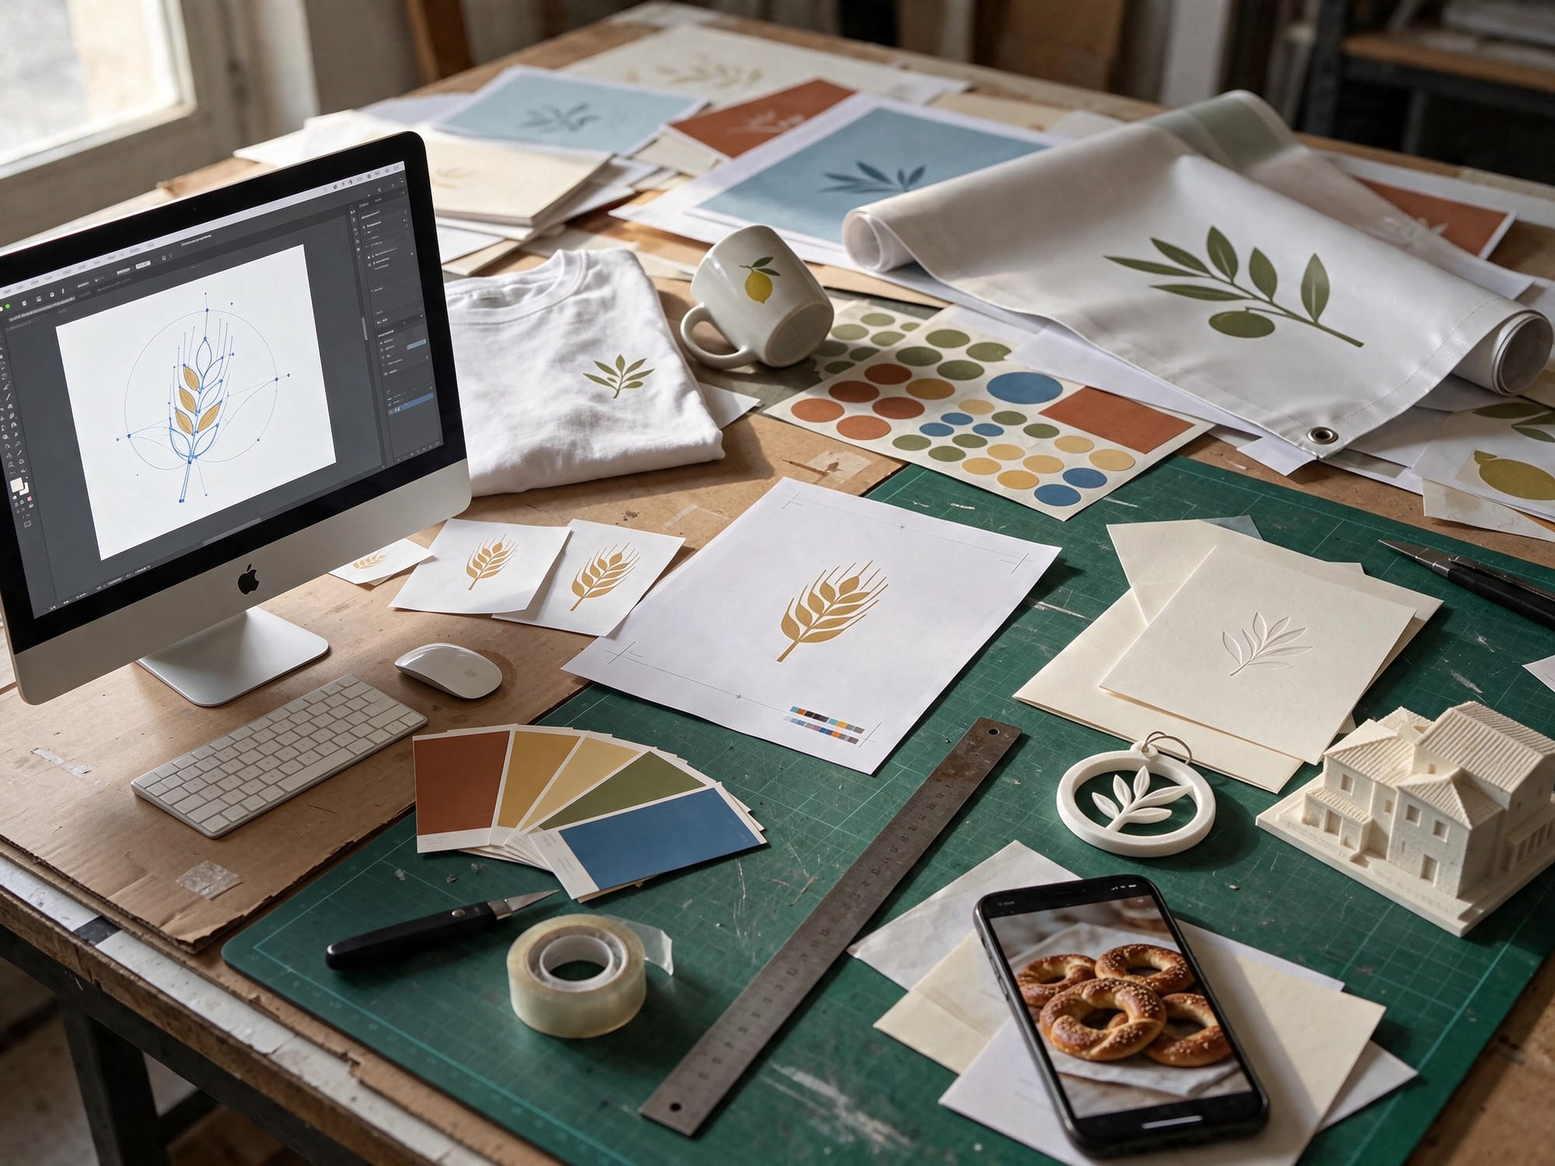
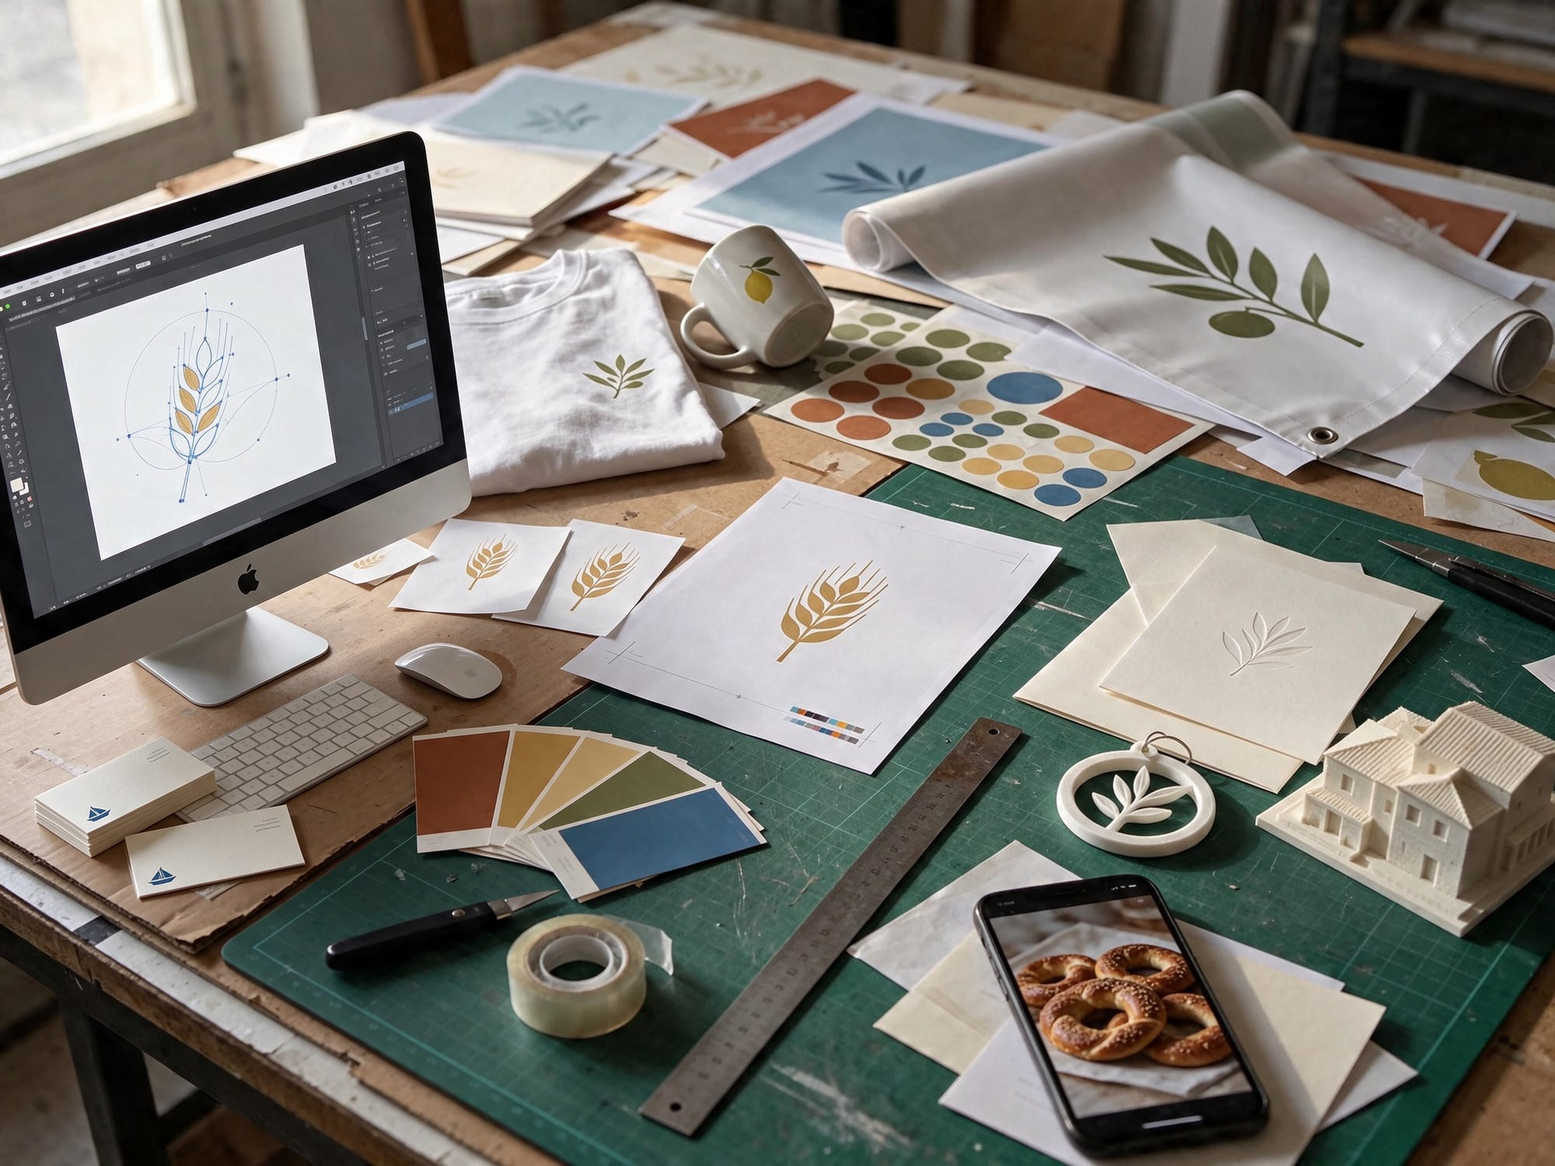
Workbench photo: business cards back in view; marker 1 clear of the frame edge

Changed region(s): [[0.0, 0.644, 0.217, 0.7973]]

diff --git a/src/i18n/pages/about.ts b/src/i18n/pages/about.ts
@@ -17,7 +17,7 @@ export const aboutText = {
      * four numbered points listed beside it (`lead` in bold, then `text`).
      */
     workbench: {
-      alt: 'Το τραπέζι εργασίας του τυπογραφείου: ένα iMac με το πρώτο σχέδιο ενός λογοτύπου στην οθόνη, τρεις τυπωμένες προτάσεις, δείγματα χρωμάτων και ένα δοκιμαστικό, ανάμεσα σε έτοιμες δουλειές: κάρτες, μπλουζάκι, κούπα, αυτοκόλλητα, πανό, ανάγλυφο προσκλητήριο, 3D εκτυπώσεις και μια ανάρτηση στο κινητό.',
+      alt: 'Το τραπέζι εργασίας του τυπογραφείου: ένα iMac με το πρώτο σχέδιο ενός λογοτύπου στην οθόνη, τυπωμένες προτάσεις, δείγματα χρωμάτων και ένα δοκιμαστικό, ανάμεσα σε έτοιμες δουλειές: κάρτες, μπλουζάκι, κούπα, αυτοκόλλητα, πανό, ανάγλυφο προσκλητήριο, 3D εκτυπώσεις και μια ανάρτηση στο κινητό.',
       stepsLabel: 'Από το σκίτσο στο δοκιμαστικό',
       steps: [
         { lead: 'Η πρώτη ιδέα,', text: 'σχεδιασμένη στον υπολογιστή.' },

diff --git a/CONTENT_REVIEW.md b/CONTENT_REVIEW.md
@@ -241,29 +241,29 @@ Every Greek string on the site that is **not** the owner’s own wording, for th
 
 ## `src/i18n/pages/about.ts` — `aboutText`
 
-| Key                                | Text                                                                                                                                                                                                                                                                                                       |
-| ---------------------------------- | ---------------------------------------------------------------------------------------------------------------------------------------------------------------------------------------------------------------------------------------------------------------------------------------------------------- |
-| `metaTitle`                        | Η εταιρεία: διαφήμιση & εκτυπώσεις                                                                                                                                                                                                                                                                         |
-| `metaDescription`                  | Η ΔΙΑΤΥΠΩΣΗ δίνει μορφή στις ιδέες σας με λύσεις διαφήμισης, εκτύπωσης και προβολής, με ποιότητα, συνέπεια και προσωπική εξυπηρέτηση. Γνωρίστε μας.                                                                                                                                                        |
-| `headerLabel`                      | Η εταιρεία                                                                                                                                                                                                                                                                                                 |
-| `headerTitle`                      | Από την ιδέα στο χαρτί, μαζί σας                                                                                                                                                                                                                                                                           |
-| `approachHeading`                  | Πώς δουλεύουμε                                                                                                                                                                                                                                                                                             |
-| `workbench.alt`                    | Το τραπέζι εργασίας του τυπογραφείου: ένα iMac με το πρώτο σχέδιο ενός λογοτύπου στην οθόνη, τρεις τυπωμένες προτάσεις, δείγματα χρωμάτων και ένα δοκιμαστικό, ανάμεσα σε έτοιμες δουλειές: κάρτες, μπλουζάκι, κούπα, αυτοκόλλητα, πανό, ανάγλυφο προσκλητήριο, 3D εκτυπώσεις και μια ανάρτηση στο κινητό. |
-| `workbench.stepsLabel`             | Από το σκίτσο στο δοκιμαστικό                                                                                                                                                                                                                                                                              |
-| `workbench.steps[0].lead`          | Η πρώτη ιδέα,                                                                                                                                                                                                                                                                                              |
-| `workbench.steps[0].text`          | σχεδιασμένη στον υπολογιστή.                                                                                                                                                                                                                                                                               |
-| `workbench.steps[1].lead`          | Προτάσεις                                                                                                                                                                                                                                                                                                  |
-| `workbench.steps[1].text`          | για το σήμα σας, σε χαρτί.                                                                                                                                                                                                                                                                                 |
-| `workbench.steps[2].lead`          | Τα χρώματα                                                                                                                                                                                                                                                                                                 |
-| `workbench.steps[2].text`          | που διαλέγουμε μαζί.                                                                                                                                                                                                                                                                                       |
-| `workbench.steps[3].lead`          | Το δοκιμαστικό                                                                                                                                                                                                                                                                                             |
-| `workbench.steps[3].text`          | που εγκρίνετε πριν τυπώσουμε.                                                                                                                                                                                                                                                                              |
-| `valuesLabel`                      | Οι αξίες μας                                                                                                                                                                                                                                                                                               |
-| `valuesTitle`                      | Ό,τι μας καθοδηγεί σε κάθε δουλειά                                                                                                                                                                                                                                                                         |
-| `valueNotes.Ποιότητα`              | Προσέχουμε την πρώτη ύλη, το χρώμα και κάθε λεπτομέρεια, ώστε το αποτέλεσμα να σας εκπροσωπεί σωστά.                                                                                                                                                                                                       |
-| `valueNotes.Συνέπεια`              | Τηρούμε ό,τι συμφωνούμε μαζί σας, από την πρώτη κουβέντα μέχρι την παράδοση.                                                                                                                                                                                                                               |
-| `valueNotes.Δημιουργικότητα`       | Αναζητούμε την ιδέα που θα κάνει τη δική σας δουλειά να ξεχωρίζει.                                                                                                                                                                                                                                         |
-| `valueNotes.Προσωπική εξυπηρέτηση` | Σας ακούμε και σας συμβουλεύουμε σε κάθε βήμα, για κάθε δουλειά, μικρή ή μεγάλη.                                                                                                                                                                                                                           |
+| Key                                | Text                                                                                                                                                                                                                                                                                                 |
+| ---------------------------------- | ---------------------------------------------------------------------------------------------------------------------------------------------------------------------------------------------------------------------------------------------------------------------------------------------------- |
+| `metaTitle`                        | Η εταιρεία: διαφήμιση & εκτυπώσεις                                                                                                                                                                                                                                                                   |
+| `metaDescription`                  | Η ΔΙΑΤΥΠΩΣΗ δίνει μορφή στις ιδέες σας με λύσεις διαφήμισης, εκτύπωσης και προβολής, με ποιότητα, συνέπεια και προσωπική εξυπηρέτηση. Γνωρίστε μας.                                                                                                                                                  |
+| `headerLabel`                      | Η εταιρεία                                                                                                                                                                                                                                                                                           |
+| `headerTitle`                      | Από την ιδέα στο χαρτί, μαζί σας                                                                                                                                                                                                                                                                     |
+| `approachHeading`                  | Πώς δουλεύουμε                                                                                                                                                                                                                                                                                       |
+| `workbench.alt`                    | Το τραπέζι εργασίας του τυπογραφείου: ένα iMac με το πρώτο σχέδιο ενός λογοτύπου στην οθόνη, τυπωμένες προτάσεις, δείγματα χρωμάτων και ένα δοκιμαστικό, ανάμεσα σε έτοιμες δουλειές: κάρτες, μπλουζάκι, κούπα, αυτοκόλλητα, πανό, ανάγλυφο προσκλητήριο, 3D εκτυπώσεις και μια ανάρτηση στο κινητό. |
+| `workbench.stepsLabel`             | Από το σκίτσο στο δοκιμαστικό                                                                                                                                                                                                                                                                        |
+| `workbench.steps[0].lead`          | Η πρώτη ιδέα,                                                                                                                                                                                                                                                                                        |
+| `workbench.steps[0].text`          | σχεδιασμένη στον υπολογιστή.                                                                                                                                                                                                                                                                         |
+| `workbench.steps[1].lead`          | Προτάσεις                                                                                                                                                                                                                                                                                            |
+| `workbench.steps[1].text`          | για το σήμα σας, σε χαρτί.                                                                                                                                                                                                                                                                           |
+| `workbench.steps[2].lead`          | Τα χρώματα                                                                                                                                                                                                                                                                                           |
+| `workbench.steps[2].text`          | που διαλέγουμε μαζί.                                                                                                                                                                                                                                                                                 |
+| `workbench.steps[3].lead`          | Το δοκιμαστικό                                                                                                                                                                                                                                                                                       |
+| `workbench.steps[3].text`          | που εγκρίνετε πριν τυπώσουμε.                                                                                                                                                                                                                                                                        |
+| `valuesLabel`                      | Οι αξίες μας                                                                                                                                                                                                                                                                                         |
+| `valuesTitle`                      | Ό,τι μας καθοδηγεί σε κάθε δουλειά                                                                                                                                                                                                                                                                   |
+| `valueNotes.Ποιότητα`              | Προσέχουμε την πρώτη ύλη, το χρώμα και κάθε λεπτομέρεια, ώστε το αποτέλεσμα να σας εκπροσωπεί σωστά.                                                                                                                                                                                                 |
+| `valueNotes.Συνέπεια`              | Τηρούμε ό,τι συμφωνούμε μαζί σας, από την πρώτη κουβέντα μέχρι την παράδοση.                                                                                                                                                                                                                         |
+| `valueNotes.Δημιουργικότητα`       | Αναζητούμε την ιδέα που θα κάνει τη δική σας δουλειά να ξεχωρίζει.                                                                                                                                                                                                                                   |
+| `valueNotes.Προσωπική εξυπηρέτηση` | Σας ακούμε και σας συμβουλεύουμε σε κάθε βήμα, για κάθε δουλειά, μικρή ή μεγάλη.                                                                                                                                                                                                                     |
 
 ## `src/i18n/pages/contact.ts` — `contactText`
 

diff --git a/CREDITS.md b/CREDITS.md
@@ -76,7 +76,8 @@ reference (same composition, text removed); two colour-chip labels and the out-o
 clock keep faint, unreadable traces. On 2026-11-25 a third Seedream pass with that photo as the reference replaced the
 sketchbook and pencil on the left with an iMac running vector design software (the first sketch of
 the wheat logo on screen), keeping the rest of the table; the interface labels on the screen are
-tiny and unreadable. The four numbered markers are drawn by the page
+tiny and unreadable. A fourth pass put a stack of business cards (boat logo) back at the front left,
+since the iMac covers the ones that were behind it. The four numbered markers are drawn by the page
 (`src/components/about/Workbench.astro`), at fixed percentages of this exact image: a replacement
 photo needs new marker positions. Its depth map for the parallax scene,
 `src/assets/about/workbench-depth.png`, is not AI-generated: `scripts/workbench-depth.mjs` computes
